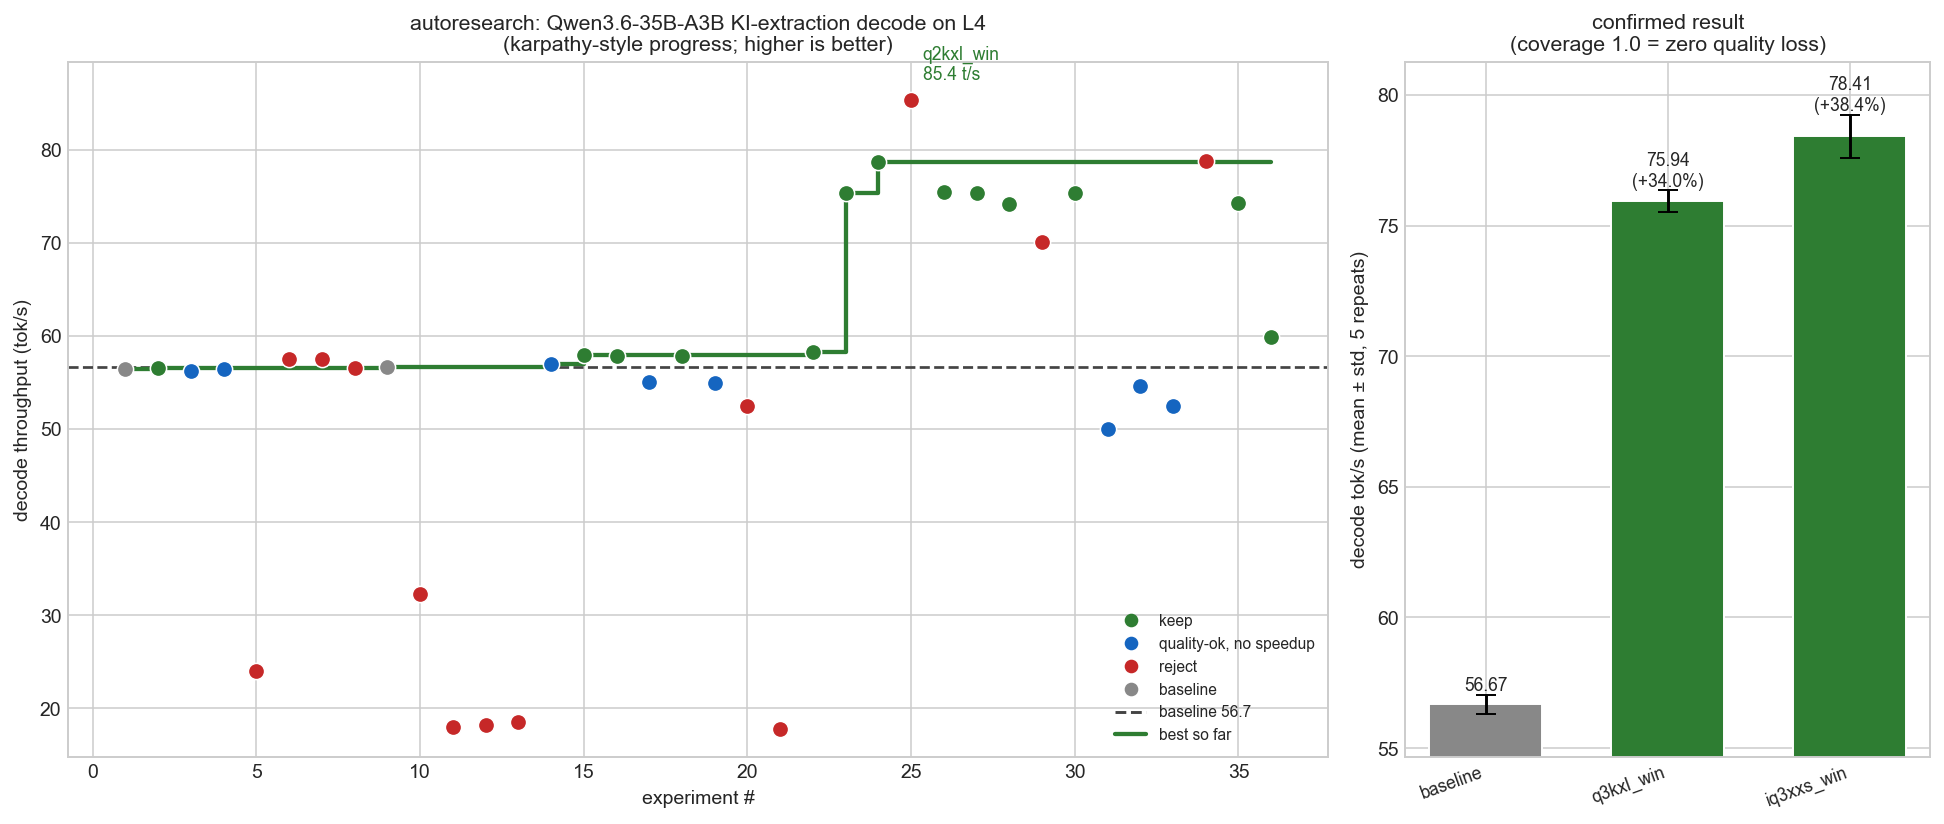
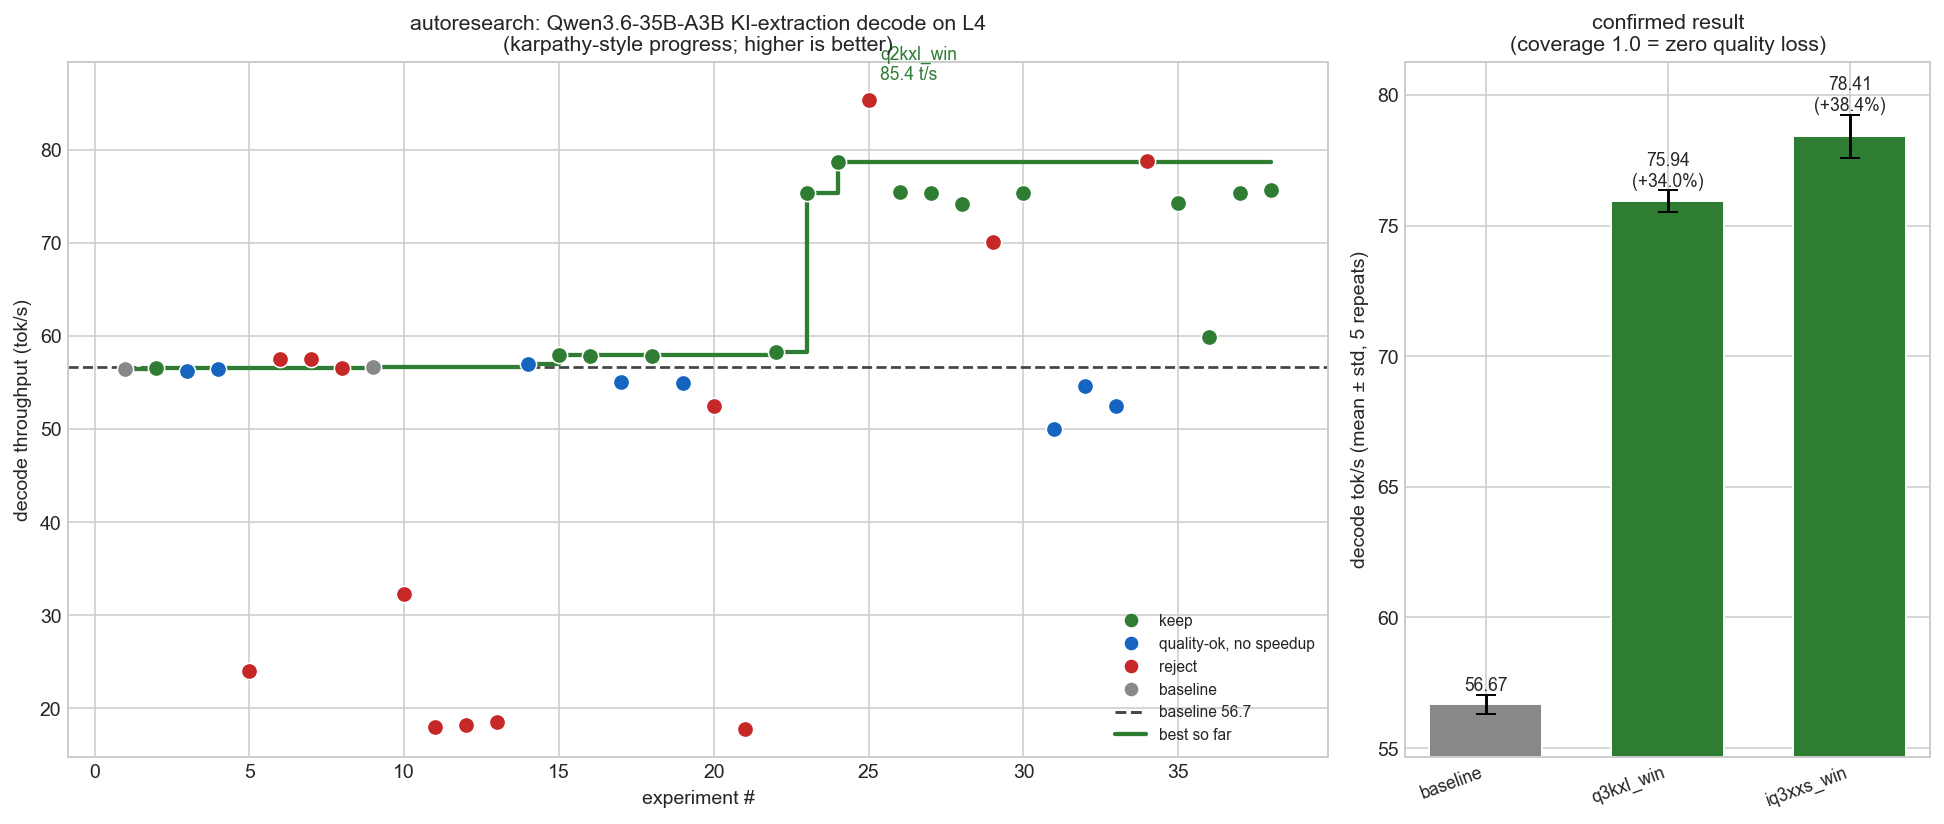
Round 2 converged: schema-overhead null; final +34% (Q3_K_XL + MTP)
batch10: dropping the JSON-schema grammar gives no decode gain at Q3 (75.7 vs
75.4) - grammar is ~free, keep it. Search converged across ~30 experiments:
quality-safe optimum is Q3_K_XL + MTP n3 + p-min 0.1 = 56.5->75.9 t/s (+34%),
zero quality loss. Decode is bandwidth-bound at a fixed ~33% efficiency.

diff --git a/autoresearch/leaderboard.md b/autoresearch/leaderboard.md
@@ -9,35 +9,37 @@ Ranked by task throughput (tokens/sec for the 3-round task). decode_tps = per-st
 | 1 | q2kxl_win | 82.27 | +49.7% | 85.41 | - | 19 | 1.0 | 0.263 | REJECT | UD-Q2_K_XL @ win (~2.7bpw, aggressiv |
 | 2 | iq3xxs_win | 76.44 | +39.1% | 78.72 | - | 24 | 1.0 | 0.75 | KEEP | UD-IQ3_XXS @ win (~3.1bpw) |
 | 3 | iq3s_win | 76.01 | +38.3% | 78.76 | - | 23 | 1.0 | 0.304 | REJECT | UD-IQ3_S @ win (~3.44bpw i-quant) |
-| 4 | q3_n3_p0 | 73.24 | +33.3% | 75.5 | - | 23 | 1.0 | 0.565 | KEEP | Q3 + n3 p-min0 (no gate) |
-| 5 | q3kxl_win | 73.07 | +33.0% | 75.39 | - | 23 | 1.0 | 0.565 | KEEP | UD-Q3_K_XL @ winning flags (~3.5bpw, |
-| 6 | q3_mtp_ctrl | 73.07 | +33.0% | 75.37 | - | 23 | 1.0 | 0.565 | KEEP | Q3 + MTP n3 p0.1 (control) |
-| 7 | q3_n3_p01 | 73.04 | +32.9% | 75.33 | - | 23 | 1.0 | 0.565 | KEEP | Q3 + n3 p-min0.1 (current winner, co |
-| 8 | q3km_win | 71.97 | +31.0% | 74.33 | - | 23 | 1.0 | 0.565 | KEEP | UD-Q3_K_M @ win (~3.3bpw k-quant) |
-| 9 | q3_n4_p01 | 71.88 | +30.8% | 74.16 | - | 20 | 1.0 | 0.7 | KEEP | Q3 + n4 p-min0.1 |
-| 10 | q3_n5_p01 | 67.92 | +23.6% | 70.13 | - | 21 | 1.0 | 0.143 | REJECT | Q3 + n5 p-min0.1 |
-| 11 | mxfp4_win | 58.22 | +6.0% | 59.91 | - | 22 | 1.0 | 0.455 | KEEP | MXFP4_MOE @ win (~4bpw, Ada-native k |
-| 12 | mtp_n3 | 57.58 | +4.8% | 57.58 | - | 20 | 1.0 | 0.6 | REJECT | MTP draft n-max 3 |
-| 13 | mtp_n3_min1 | 57.56 | +4.7% | 57.56 | - | 20 | 1.0 | 0.6 | REJECT | MTP n-max 3 n-min 1 |
-| 14 | ctx12k | 56.61 | +3.0% | 56.61 | - | 21 | 1.0 | 0.524 | KEEP | ctx 12288 (smaller KV -> less offloa |
-| 15 | mtp_n4 | 56.61 | +3.0% | 56.61 | - | 23 | 1.0 | 0.478 | REJECT | MTP draft n-max 4 |
-| 16 | kv_q8 | 56.4 | +2.6% | 56.4 | - | 22 | 1.0 | 0.636 | QUALITY_OK_NO_SPEEDUP | KV cache q8_0 k+v (frees VRAM, tiny  |
-| 17 | q4_win | 56.36 | +2.6% | 58.29 | - | 20 | 1.0 | 0.6 | KEEP | Q4_K_XL @ winning flags (same-sessio |
-| 18 | kv_q4 | 56.22 | +2.3% | 56.22 | - | 22 | 1.0 | 0.545 | QUALITY_OK_NO_SPEEDUP | KV cache q4_0 k+v (max VRAM saving,  |
-| 19 | mtp_n3_pmin01 | 56.06 | +2.0% | 58.01 | - | 20 | 1.0 | 0.6 | KEEP | n3 + p-min 0.1 |
-| 20 | mtp_n3_pmin03 | 55.93 | +1.8% | 57.86 | - | 22 | 1.0 | 0.545 | KEEP | n3 + p-min 0.3 |
-| 21 | mtp_n3_rc | 55.9 | +1.7% | 57.83 | - | 20 | 1.0 | 0.6 | KEEP | MTP n-max 3 (build default; reconfir |
-| 22 | mtp_n2_ctrl | 55.21 | +0.5% | 57.02 | - | 21 | 1.0 | 0.524 | QUALITY_OK_NO_SPEEDUP | MTP n-max 2 (repo's override, contro |
-| 23 | baseline | 54.95 | +0.0% | 56.72 | - | 21 | 1.0 | 0.524 | baseline | repo defaults (docker-compose.yml) |
-| 24 | q3_ngram_mapk | 53.55 | +-2.5% | 54.62 | - | 24 | 1.0 | 0.583 | QUALITY_OK_NO_SPEEDUP | Q3 + ngram-map-k draft (n-max 8) |
-| 25 | mtp_n4_pmin03 | 53.54 | +-2.6% | 54.99 | - | 27 | 1.0 | 0.63 | QUALITY_OK_NO_SPEEDUP | n4 + p-min 0.3 |
-| 26 | mtp_n3_pmin05 | 53.45 | +-2.7% | 55.07 | - | 21 | 1.0 | 0.714 | QUALITY_OK_NO_SPEEDUP | n3 + p-min 0.5 |
-| 27 | par2 | 51.51 | +-6.3% | 32.3 | Y | 20 | 1.0 | 0.7 | REJECT | parallel 2 slots, ctx16384 (8192/slo |
-| 28 | q3_ngram_simple | 51.5 | +-6.3% | 52.46 | - | 21 | 1.0 | 0.714 | QUALITY_OK_NO_SPEEDUP | Q3 + ngram-simple draft (n-max 8) |
-| 29 | mtp_n5_pmin05 | 50.85 | +-7.5% | 52.5 | - | 24 | 1.0 | 0.417 | REJECT | n5 + p-min 0.5 |
-| 30 | par3_mtp3 | 50.51 | +-8.1% | 18.5 | Y | 22 | 1.0 | 0.5 | REJECT | parallel 3 + MTP n-max 3 (stack batc |
-| 31 | par3_q8 | 49.82 | +-9.3% | 17.97 | Y | 20 | 0.952 | 0.45 | REJECT | parallel 3 + KV q8 (VRAM-safe), ctx2 |
-| 32 | par3 | 49.82 | +-9.3% | 18.19 | Y | 19 | 1.0 | 0.474 | REJECT | parallel 3 slots, ctx24576 (8192/slo |
-| 33 | q3_ngram_cache | 49.11 | +-10.6% | 49.99 | - | 20 | 1.0 | 0.6 | QUALITY_OK_NO_SPEEDUP | Q3 + ngram-cache draft (n-max 8) |
-| 34 | par3_clean | 49.03 | +-10.8% | 17.79 | Y | 21 | 1.0 | 0.333 | REJECT | parallel 3, ctx36864 (12288/slot, no |
-| 35 | kv_q8k_f16v | 24.04 | +-56.3% | 24.04 | - | 26 | 1.0 | 0.5 | REJECT | KV k=q8_0 v=f16 (flash-attn likes f1 |
+| 4 | q3_noschema | 75.53 | +37.5% | 75.72 | - | 23 | 1.0 | 0.565 | KEEP | Q3 + win, NO json-schema grammar |
+| 5 | q3_n3_p0 | 73.24 | +33.3% | 75.5 | - | 23 | 1.0 | 0.565 | KEEP | Q3 + n3 p-min0 (no gate) |
+| 6 | q3_schema_ctrl | 73.12 | +33.1% | 75.36 | - | 23 | 1.0 | 0.565 | KEEP | Q3 + win + schema (control) |
+| 7 | q3kxl_win | 73.07 | +33.0% | 75.39 | - | 23 | 1.0 | 0.565 | KEEP | UD-Q3_K_XL @ winning flags (~3.5bpw, |
+| 8 | q3_mtp_ctrl | 73.07 | +33.0% | 75.37 | - | 23 | 1.0 | 0.565 | KEEP | Q3 + MTP n3 p0.1 (control) |
+| 9 | q3_n3_p01 | 73.04 | +32.9% | 75.33 | - | 23 | 1.0 | 0.565 | KEEP | Q3 + n3 p-min0.1 (current winner, co |
+| 10 | q3km_win | 71.97 | +31.0% | 74.33 | - | 23 | 1.0 | 0.565 | KEEP | UD-Q3_K_M @ win (~3.3bpw k-quant) |
+| 11 | q3_n4_p01 | 71.88 | +30.8% | 74.16 | - | 20 | 1.0 | 0.7 | KEEP | Q3 + n4 p-min0.1 |
+| 12 | q3_n5_p01 | 67.92 | +23.6% | 70.13 | - | 21 | 1.0 | 0.143 | REJECT | Q3 + n5 p-min0.1 |
+| 13 | mxfp4_win | 58.22 | +6.0% | 59.91 | - | 22 | 1.0 | 0.455 | KEEP | MXFP4_MOE @ win (~4bpw, Ada-native k |
+| 14 | mtp_n3 | 57.58 | +4.8% | 57.58 | - | 20 | 1.0 | 0.6 | REJECT | MTP draft n-max 3 |
+| 15 | mtp_n3_min1 | 57.56 | +4.7% | 57.56 | - | 20 | 1.0 | 0.6 | REJECT | MTP n-max 3 n-min 1 |
+| 16 | ctx12k | 56.61 | +3.0% | 56.61 | - | 21 | 1.0 | 0.524 | KEEP | ctx 12288 (smaller KV -> less offloa |
+| 17 | mtp_n4 | 56.61 | +3.0% | 56.61 | - | 23 | 1.0 | 0.478 | REJECT | MTP draft n-max 4 |
+| 18 | kv_q8 | 56.4 | +2.6% | 56.4 | - | 22 | 1.0 | 0.636 | QUALITY_OK_NO_SPEEDUP | KV cache q8_0 k+v (frees VRAM, tiny  |
+| 19 | q4_win | 56.36 | +2.6% | 58.29 | - | 20 | 1.0 | 0.6 | KEEP | Q4_K_XL @ winning flags (same-sessio |
+| 20 | kv_q4 | 56.22 | +2.3% | 56.22 | - | 22 | 1.0 | 0.545 | QUALITY_OK_NO_SPEEDUP | KV cache q4_0 k+v (max VRAM saving,  |
+| 21 | mtp_n3_pmin01 | 56.06 | +2.0% | 58.01 | - | 20 | 1.0 | 0.6 | KEEP | n3 + p-min 0.1 |
+| 22 | mtp_n3_pmin03 | 55.93 | +1.8% | 57.86 | - | 22 | 1.0 | 0.545 | KEEP | n3 + p-min 0.3 |
+| 23 | mtp_n3_rc | 55.9 | +1.7% | 57.83 | - | 20 | 1.0 | 0.6 | KEEP | MTP n-max 3 (build default; reconfir |
+| 24 | mtp_n2_ctrl | 55.21 | +0.5% | 57.02 | - | 21 | 1.0 | 0.524 | QUALITY_OK_NO_SPEEDUP | MTP n-max 2 (repo's override, contro |
+| 25 | baseline | 54.95 | +0.0% | 56.72 | - | 21 | 1.0 | 0.524 | baseline | repo defaults (docker-compose.yml) |
+| 26 | q3_ngram_mapk | 53.55 | +-2.5% | 54.62 | - | 24 | 1.0 | 0.583 | QUALITY_OK_NO_SPEEDUP | Q3 + ngram-map-k draft (n-max 8) |
+| 27 | mtp_n4_pmin03 | 53.54 | +-2.6% | 54.99 | - | 27 | 1.0 | 0.63 | QUALITY_OK_NO_SPEEDUP | n4 + p-min 0.3 |
+| 28 | mtp_n3_pmin05 | 53.45 | +-2.7% | 55.07 | - | 21 | 1.0 | 0.714 | QUALITY_OK_NO_SPEEDUP | n3 + p-min 0.5 |
+| 29 | par2 | 51.51 | +-6.3% | 32.3 | Y | 20 | 1.0 | 0.7 | REJECT | parallel 2 slots, ctx16384 (8192/slo |
+| 30 | q3_ngram_simple | 51.5 | +-6.3% | 52.46 | - | 21 | 1.0 | 0.714 | QUALITY_OK_NO_SPEEDUP | Q3 + ngram-simple draft (n-max 8) |
+| 31 | mtp_n5_pmin05 | 50.85 | +-7.5% | 52.5 | - | 24 | 1.0 | 0.417 | REJECT | n5 + p-min 0.5 |
+| 32 | par3_mtp3 | 50.51 | +-8.1% | 18.5 | Y | 22 | 1.0 | 0.5 | REJECT | parallel 3 + MTP n-max 3 (stack batc |
+| 33 | par3_q8 | 49.82 | +-9.3% | 17.97 | Y | 20 | 0.952 | 0.45 | REJECT | parallel 3 + KV q8 (VRAM-safe), ctx2 |
+| 34 | par3 | 49.82 | +-9.3% | 18.19 | Y | 19 | 1.0 | 0.474 | REJECT | parallel 3 slots, ctx24576 (8192/slo |
+| 35 | q3_ngram_cache | 49.11 | +-10.6% | 49.99 | - | 20 | 1.0 | 0.6 | QUALITY_OK_NO_SPEEDUP | Q3 + ngram-cache draft (n-max 8) |
+| 36 | par3_clean | 49.03 | +-10.8% | 17.79 | Y | 21 | 1.0 | 0.333 | REJECT | parallel 3, ctx36864 (12288/slot, no |
+| 37 | kv_q8k_f16v | 24.04 | +-56.3% | 24.04 | - | 26 | 1.0 | 0.5 | REJECT | KV k=q8_0 v=f16 (flash-attn likes f1 |

diff --git a/autoresearch/strategies.md b/autoresearch/strategies.md
@@ -80,7 +80,23 @@ UD-tuned Q3_K_XL. **Q3_K_XL is the speed-optimal quality-preserving quant.**
 **Converged optimum: Q3_K_XL + `--spec-draft-n-max 3 --spec-draft-p-min 0.1`
 = 75.9 t/s, +34%, zero quality loss.** Decode is bandwidth-bound at a fixed
 ~33% efficiency; quant bit-width is the only quality-safe knob and ~3.5bpw
-k-quant is the floor. Remaining probe: JSON-schema grammar CPU overhead.
+k-quant is the floor.
+
+- **JSON-schema grammar overhead (batch10): null.** Q3 no-schema 75.7 vs schema
+  75.4 (within noise). The grammar mask is ~free at decode time, and it
+  guarantees valid JSON -> keep it.
+
+## SEARCH CONVERGED (rounds 1+2, ~30 experiments)
+
+Quality-safe decode-rate levers are exhausted within the llama.cpp+MTP stack:
+- WIN: Q3_K_XL quant (+34%) x MTP n3+p-min0.1 (+2%). Combined **56.5 -> 75.9 t/s**.
+- Inert: KV quant, ctx size, ubatch, schema grammar, MXFP4.
+- Harmful: --parallel (-10%, bandwidth split), mixed-KV (-57%), MTP n>=4.
+- Quality-breaking (rejected): IQ3_XXS (-KIs), IQ3_S/Q2 (-grounding), sub-3.5bpw.
+- Dead ends: n-gram drafting (MTP wins), Q3_K_M (slower than UD-Q3_K_XL).
+Decode is bandwidth-bound at a hardware ~33% efficiency (format-independent).
+Beyond this needs a quality tradeoff or a different engine (FP8 tensor cores +
+grammar jump-forward, e.g. SGLang/vLLM) -- out of scope for the llama.cpp+MTP repo.
 
 ## WINNER (round 1, 5-repeat confirmed)
 

diff --git a/autoresearch/REPORT.md b/autoresearch/REPORT.md
@@ -14,6 +14,14 @@ coverage and groundedness all preserved.
 | IQ3_XXS @ win (rejected) | 78.41 ± 0.84 | +38.4% | 15.4 ⚠ | 0.952 | 0.57 |
 
 Combined with the round-1 MTP tuning, total is **56.46 → 75.9 tok/s, +34%**.
+
+After ~30 experiments the quality-safe frontier is fully mapped and converged:
+the only levers that move decode rate without quality loss are bit-width
+(Q4→Q3_K_XL, +34%) and the MTP flags (+2%). Everything else is inert (KV quant,
+ctx, schema grammar, MXFP4), harmful (parallelism −10%, mixed-KV −57%), or
+quality-breaking (sub-3.5bpw, i-quants). Decode is bandwidth-bound at a fixed
+~33% efficiency, so going further needs a quality tradeoff or a different engine
+(FP8 + grammar jump-forward) — outside the llama.cpp+MTP repo.
 - **Quality preserved:** Q3's KI count (22.8 ≈ 22.6), groundedness (0.67 ≥ 0.61),
   and coverage (cov_min 0.952 == baseline's own cross-seed self-coverage) match
   baseline; a manual fact spot-check confirmed correct, verbatim-grounded facts.